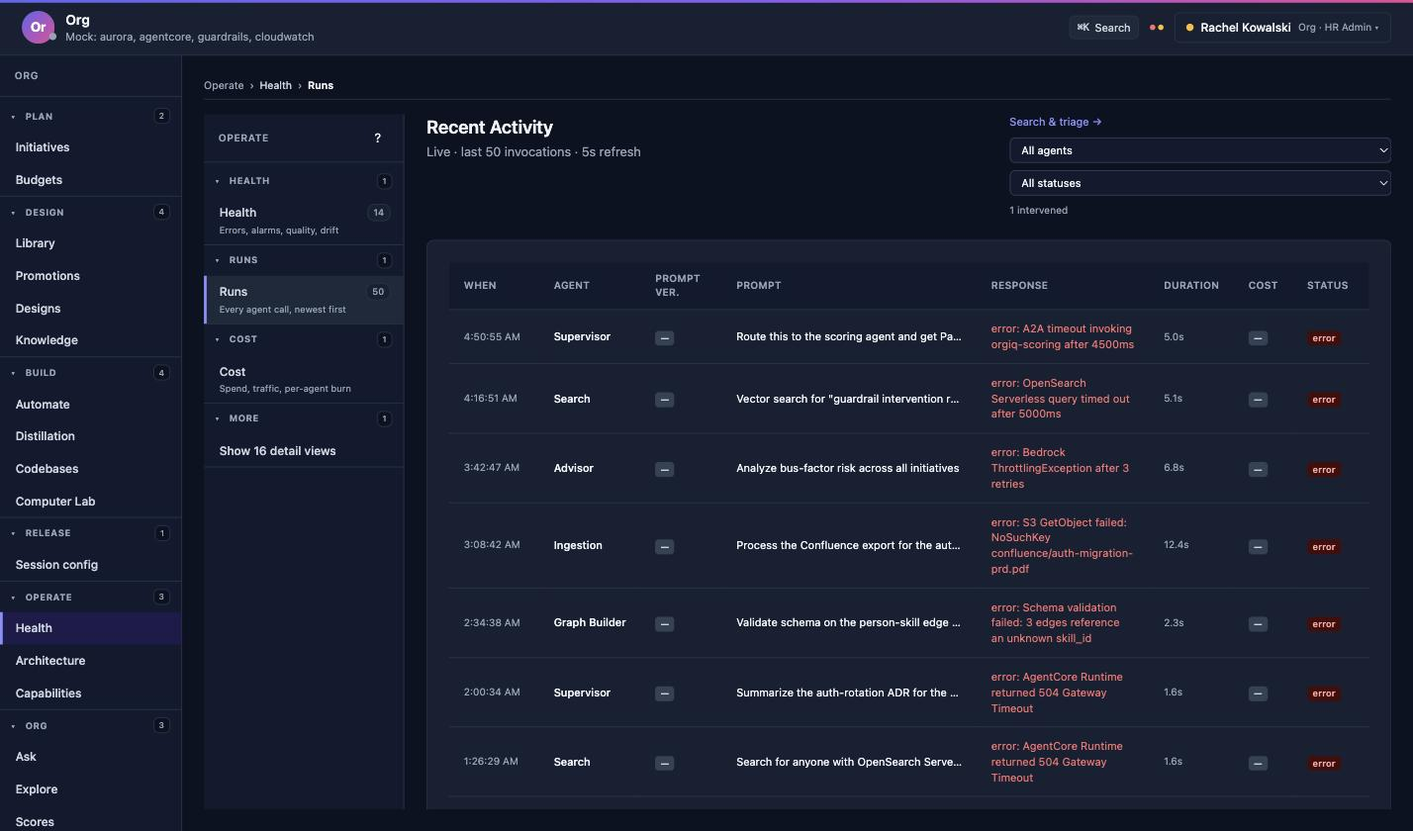
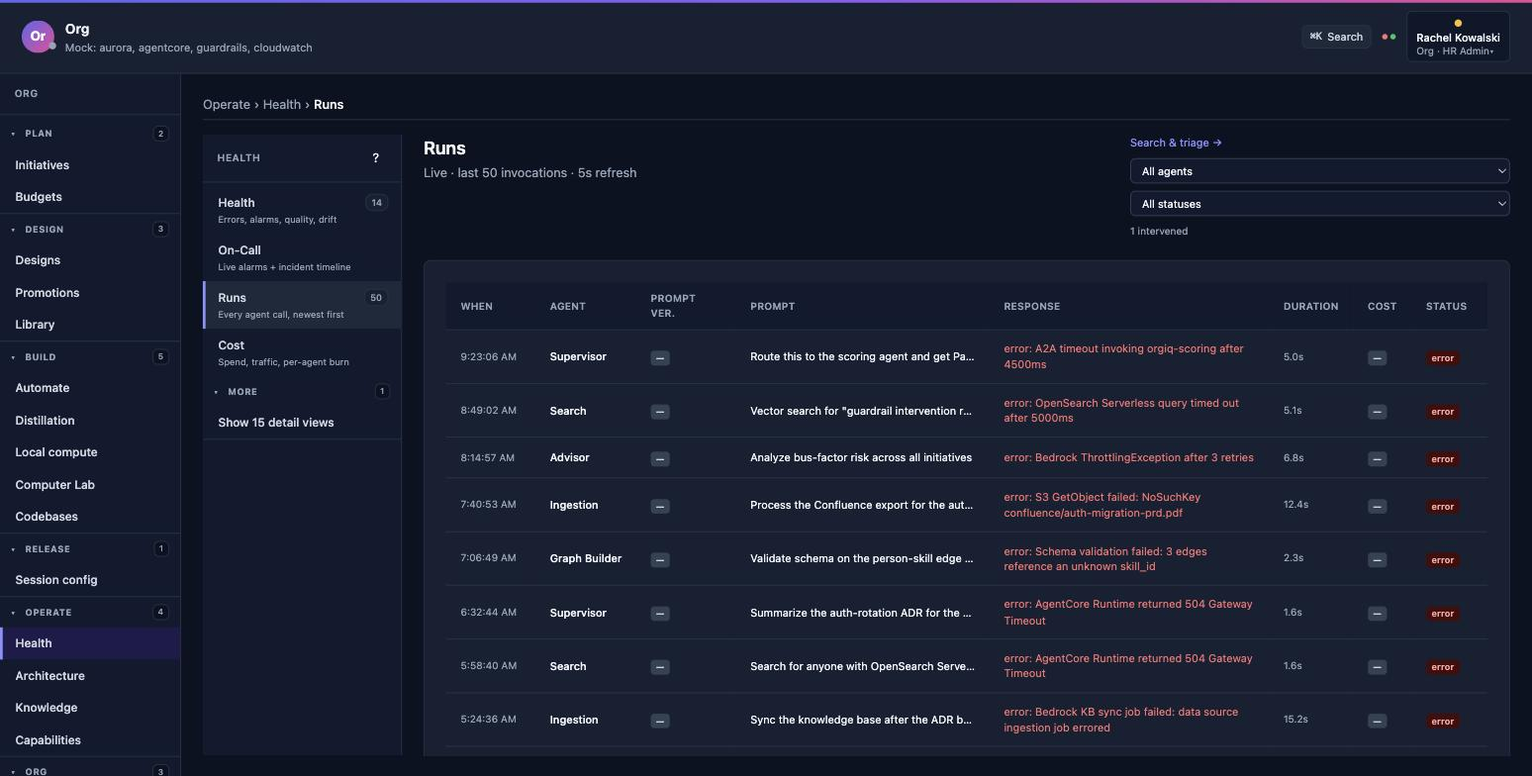
feat(shell): the nested rails agree with their pages too — and Quality no longer crashes on an unscored run
A second IA review, one level down. Prompt Management was the worst: the
canary page was Rollout in the rail, Deployment in the breadcrumb and
Canary in ⌘K; "What is deployed" was Prompts in two places and titled
Prompt Management on the page; Studio / Versions / Evals were Prompt
Studio / History / Evaluations elsewhere; and ⌘K advertised a Prompt
Diff page the rail had folded into Versions. The breadcrumb, the
palette and the page titles now repeat the rail's words.

The Observability rail is titled Health (its breadcrumb always said
Operate › Health, and the shell's Operate group holds three other
doors); On-Call is a primary beside Health / Runs / Cost rather than
behind "Show 16 detail views" — an alarm page should not need a
disclosure; the collapsed rail no longer prints HEALTH / RUNS / COST
over rows of the same name; and a deep link to any detail view opens
the views with the page lit instead of a rail with nothing active. The
Runs page is titled Runs, not Recent Activity; Approval Queue is
Approval Queue in the trail and ⌘K. Knowledge's Overview hint says what
the page says. Distillation's two Operations hints stop advertising
Compact / agree / disagree to roles without ManageBots. The Scores rail
is titled Scores, its cross-link to Explore is called Explore, and the
Explore rail lights the right Show item when other params are present.

Deep-linking Quality exposed a crash: `judgeScore` was typed number but
[…]

diff --git a/portal/src/components/shell/portalCommands.ts b/portal/src/components/shell/portalCommands.ts
@@ -95,12 +95,11 @@ const PAGES: PageEntry[] = [
   { label: 'Score cohorts',      hint: 'Scores grouped by team',              path: '/iq/scores/cohorts',                          tenant: 'orgiq',  group: 'Org', roles: PLATFORM },
   { label: 'Score compare',      hint: 'Radar overlay of people',             path: '/iq/scores/compare',                          tenant: 'orgiq',  group: 'Org', roles: PLATFORM },
   // ── Operate — prompts, health, platform ──
-  { label: 'Prompts',            hint: 'What is deployed + what to do next',  path: '/iq/prompt-ops',                              tenant: 'orgiq',  group: 'Design',  roles: PLATFORM },
-  { label: 'Prompt Studio',      hint: 'Managed prompt registry',             path: '/iq/prompts',                                 tenant: 'admin',  group: 'Design',  roles: PLATFORM },
-  { label: 'Prompt History',     hint: 'Version timeline per prompt',         path: '/iq/history',                                 tenant: 'admin',  group: 'Design',  roles: PLATFORM },
-  { label: 'Prompt Diff',        hint: 'Compare two prompt versions',         path: '/iq/diff',                                    tenant: 'admin',  group: 'Design',  roles: PLATFORM },
-  { label: 'Canary',             hint: 'Live A/B prompt rollout',             path: '/iq/canary',                                  tenant: 'orgiq',  group: 'Design',  roles: PLATFORM },
-  { label: 'Evaluations',        hint: 'LLM-as-judge configuration',          path: '/iq/evaluations',                             tenant: 'admin',  group: 'Design',  roles: PLATFORM },
+  { label: 'What is deployed',   hint: 'Live prompts + what to do next',      path: '/iq/prompt-ops',                              tenant: 'orgiq',  group: 'Design',  roles: PLATFORM },
+  { label: 'Studio',             hint: 'Author, type the contract, test',     path: '/iq/prompts',                                 tenant: 'admin',  group: 'Design',  roles: PLATFORM },
+  { label: 'Versions',           hint: 'Version log, diffs, past experiments', path: '/iq/history',                                 tenant: 'admin',  group: 'Design',  roles: PLATFORM },
+  { label: 'Rollout',            hint: 'Canary A/B, weights, rollback',       path: '/iq/canary',                                  tenant: 'orgiq',  group: 'Design',  roles: PLATFORM },
+  { label: 'Evals',              hint: 'Judge configuration + pass rates',    path: '/iq/evaluations',                             tenant: 'admin',  group: 'Design',  roles: PLATFORM },
   { label: 'Health',             hint: 'What is deployed, whether it works, what needs you', path: '/admin/observability/summary', tenant: 'admin', group: 'Operate', roles: PLATFORM },
   { label: 'On-Call',            hint: 'Live alarms + incident timeline',     path: '/admin/observability/oncall',                 tenant: 'admin',  group: 'Operate', roles: PLATFORM },
   { label: 'Runs',               hint: 'Last 50 agent calls',                 path: '/admin/observability/invocations',            tenant: 'admin',  group: 'Operate', roles: PLATFORM },
@@ -124,7 +123,7 @@ const PAGES: PageEntry[] = [
   { label: 'Drift',              hint: 'Schema + judge + embedding drift',    path: '/admin/observability/drift',                  tenant: 'admin',  group: 'Operate', roles: PLATFORM },
   { label: 'Quality',            hint: 'Judge scores + feedback',             path: '/admin/observability/quality',                tenant: 'admin',  group: 'Operate', roles: PLATFORM },
   { label: 'Cost',               hint: 'Spend by agent + deploy markers',     path: '/admin/observability/cost',                   tenant: 'admin',  group: 'Operate', roles: PLATFORM },
-  { label: 'Approvals',          hint: 'Pending HITL decisions',              path: '/admin/observability/approvals',              tenant: 'admin',  group: 'Operate', roles: PLATFORM },
+  { label: 'Approval Queue',     hint: 'Pending HITL decisions',              path: '/admin/observability/approvals',              tenant: 'admin',  group: 'Operate', roles: PLATFORM },
   { label: 'Harness',            hint: 'Replay test set + view runs',         path: '/admin/observability/harness',                tenant: 'admin',  group: 'Operate', roles: PLATFORM },
   { label: 'Calibration',        hint: 'Judge vs human MAE drift',            path: '/admin/observability/calibration',            tenant: 'admin',  group: 'Operate', roles: PLATFORM },
   { label: 'Model Compare',      hint: 'Side-by-side run delta',              path: '/admin/observability/model-compare',          tenant: 'admin',  group: 'Operate', roles: PLATFORM },

diff --git a/portal/src/pages/observability/ObservabilityLayout.tsx b/portal/src/pages/observability/ObservabilityLayout.tsx
@@ -1,8 +1,15 @@
 import { useState } from 'react';
-import { NavLink, Outlet } from 'react-router';
+import { NavLink, Outlet, useLocation } from 'react-router';
 import { SubNavLayout, type SubNavItem } from '@connorhoehnslalom/ui-components/shared';
 import { useFetch } from '../../hooks/useFetch';
 import { ObservabilityHelpButton } from './ObservabilityHelp';
+
+/** Every detail view's path segment — the list `showAll` opens for on arrival. */
+const DRILL_IN_PATHS = [
+  'quality', 'drift', 'guardrail-rules', 'approvals', 'authz',
+  'invocations/search', 'tools', 'sessions', 'capability-events', 'memory', 'harness', 'calibration', 'model-compare',
+  'traffic', 'agents',
+];
 
 interface ObsSummary {
   totalInvocations24h: number;
@@ -22,7 +29,12 @@ function ObservabilityLayout() {
     '/api/observability/recent-invocations?limit=50',
     10_000,
   );
-  const [showAll, setShowAll] = useState(false);
+  // Open the detail views when the page IS one — a deep link from ⌘K, a
+  // breadcrumb or a bookmark used to land on a rail with nothing lit.
+  const { pathname } = useLocation();
+  const [showAll, setShowAll] = useState(
+    () => DRILL_IN_PATHS.some((p) => pathname === `/admin/observability/${p}` || pathname.startsWith(`/admin/observability/${p}/`)),
+  );
 
   const invocationCount = recent?.invocations.length;
   const errorCount = summary?.totalErrors24h;
@@ -30,8 +42,11 @@ function ObservabilityLayout() {
   // Three questions, not five categories: is it healthy, what ran, what did it
   // cost. Everything else is a drill-in on one of those and stays hidden until
   // asked for — eighteen equal-weight links read as a pile of dashboards.
+  // On-Call sits with the primaries: it is the one live-incident surface in
+  // the product, and an alarm page should not need a disclosure to reach.
   const primary: SubNavItem[] = [
     { group: 'Health', path: 'summary',     label: 'Health',   hint: 'Errors, alarms, quality, drift' },
+    { group: 'Health', path: 'oncall',      label: 'On-Call',  hint: 'Live alarms + incident timeline' },
     { group: 'Runs',   path: 'invocations', label: 'Runs',     hint: 'Every agent call, newest first',
       ...(invocationCount ? { count: invocationCount } : {}) },
     { group: 'Cost',   path: 'cost',        label: 'Cost',     hint: 'Spend, traffic, per-agent burn' },
@@ -39,7 +54,6 @@ function ObservabilityLayout() {
 
   // Drill-ins, grouped under the question they answer.
   const drillIns: SubNavItem[] = [
-    { group: 'Health', path: 'oncall',          label: 'On-Call',         hint: 'Live alarms + incident timeline' },
     { group: 'Health', path: 'quality',         label: 'Quality',         hint: 'Judge scores + feedback' },
     { group: 'Health', path: 'drift',           label: 'Drift',           hint: 'Schema + judge + embedding' },
     { group: 'Health', path: 'guardrail-rules', label: 'Guardrail Rules', hint: 'Per-rule intervention detail' },
@@ -61,12 +75,15 @@ function ObservabilityLayout() {
 
   // Interleave so each drill-in sits under its own question rather than in a
   // trailing block — SubNavLayout groups by first appearance of the heading.
+  // Collapsed, the primaries carry no group: "HEALTH / Health · RUNS / Runs
+  // · COST / Cost" was three headings over three identically named rows.
+  // The headings earn their place only once the drill-ins sit under them.
   const items: SubNavItem[] = showAll
     ? (['Health', 'Runs', 'Cost'] as const).flatMap((g) => [
         ...primary.filter((i) => i.group === g),
         ...drillIns.filter((i) => i.group === g),
       ])
-    : [...primary];
+    : primary.map(({ group: _group, ...rest }) => rest);
 
   // Last, under its own heading, so the three questions stay the first thing
   // read. Power controls exist; they just do not go first.
@@ -85,7 +102,10 @@ function ObservabilityLayout() {
 
   return (
     <SubNavLayout
-      title="Operate"
+      // "Health", not "Operate": the shell's Operate group also holds
+      // Architecture, Knowledge and Capabilities, none of which are here, and
+      // the breadcrumb for every page in this rail already reads Operate › Health.
+      title="Health"
       items={items}
       titleAction={<ObservabilityHelpButton />}
       storageKey="obs"

diff --git a/portal/src/components/shell/breadcrumbResolve.ts b/portal/src/components/shell/breadcrumbResolve.ts
@@ -19,7 +19,7 @@ const OBS_LABELS: Record<string, string> = {
   cost: 'Cost', calibration: 'Calibration', 'model-compare': 'Model Compare',
   memory: 'Memory', 'guardrail-rules': 'Guardrail Rules', traffic: 'Traffic',
   tools: 'Tool Calls',
-  approvals: 'Approvals',
+  approvals: 'Approval Queue',
 };
 const INGEST_LABELS: Record<string, string> = {
   crawl: 'Sources', history: 'Runs', storage: 'Storage', sources: 'KB sync', schedules: 'Schedule',
@@ -43,9 +43,11 @@ const ASSESSMENT_LABELS: Record<string, string> = {
   enterprise: 'Enterprise', workspace: 'Workspace', prompts: 'Prompts', rules: 'Rules',
   runs: 'Activity', configuration: 'Configuration',
 };
+// The rail's own words (iqSubNavFormat.ts PROMPT_MGMT_ITEMS) — the name a
+// person clicked is the name the trail should repeat.
 const PROMPT_PAGES: Record<string, string> = {
-  prompts: 'Prompt Studio', canary: 'Deployment', history: 'History',
-  diff: 'Diff', evaluations: 'Evaluations',
+  prompts: 'Studio', canary: 'Rollout', history: 'Versions',
+  diff: 'Diff', evaluations: 'Evals',
 };
 const DISTILLATION_LABELS: Record<string, string> = {
   overview: 'Overview', tiers: 'Tiers', artifacts: 'Artifacts',
@@ -90,7 +92,7 @@ export function resolveBreadcrumbs(pathname: string): Crumb[] {
         return [{ label: 'Operate' }, { label: 'Architecture', path: '/iq/agents' }, { label: b }];
       // Prompt management is the Library's rail (Design); the rail lights
       // Library on these pages, so the crumb says the same.
-      case 'prompt-ops': return [{ label: 'Design' }, { label: 'Library', path: '/iq/library' }, { label: 'Prompts' }];
+      case 'prompt-ops': return [{ label: 'Design' }, { label: 'Library', path: '/iq/library' }, { label: 'What is deployed' }];
       case 'distillation': {
         const page = b ?? 'overview';
         return [{ label: 'Build' }, { label: 'Distillation', path: '/iq/distillation' }, { label: DISTILLATION_LABELS[page] ?? page }];

diff --git a/portal/src/pages/distillation/DistillationLayout.tsx b/portal/src/pages/distillation/DistillationLayout.tsx
@@ -15,9 +15,10 @@
 // produced, with provenance), Operations (running it and keeping it honest).
 import { NavLink, Outlet } from 'react-router';
 import { SubNavLayout, type SubNavItem } from '@connorhoehnslalom/ui-components/shared';
+import { useCapabilities } from '../../lib/capabilities';
 
 const ITEMS: SubNavItem[] = [
-  { group: 'Memory', path: 'overview', label: 'Overview', hint: 'Stat strip, tier health, ingest, sampling' },
+  { group: 'Memory', path: 'overview', label: 'Overview', hint: 'Tier health, ingest, sampling' },
   { group: 'Memory', path: 'tiers', label: 'Tiers', hint: 'L0 observations · L1 clusters · L2 artifacts' },
   { group: 'Knowledge', path: 'artifacts', label: 'Artifacts', hint: 'L2 artifacts, with Library links' },
   { group: 'Knowledge', path: 'lineage', label: 'Lineage', hint: 'Observation → cluster → artifact → library item' },
@@ -25,11 +26,24 @@ const ITEMS: SubNavItem[] = [
   { group: 'Operations', path: 'review', label: 'Review sample', hint: 'The human sample queue + calibration' },
 ];
 
+/** The two Operations hints promise verbs (Compact, agree/disagree) gated on
+ *  ManageBots; a role without it opens a read-only ledger, so its rail should
+ *  say so rather than advertise the verb. */
+const READ_ONLY_HINTS: Record<string, string> = {
+  compactions: 'Job history',
+  review: 'The human sample queue + calibration (read-only for your role)',
+};
+
 function DistillationLayout() {
+  const { can, ready } = useCapabilities();
+  const canManage = ready && can('ManageBots');
+  const items = canManage
+    ? ITEMS
+    : ITEMS.map((i) => (READ_ONLY_HINTS[i.path] ? { ...i, hint: READ_ONLY_HINTS[i.path] } : i));
   return (
     <SubNavLayout
       title="Distillation"
-      items={ITEMS}
+      items={items}
       storageKey="distillation"
       renderNavItem={(item, children) => (
         <NavLink

diff --git a/portal/src/pages/observability/QualityPage.tsx b/portal/src/pages/observability/QualityPage.tsx
@@ -46,7 +46,7 @@ import { T } from './Text';
 interface QualityScore {
   invocationId: string;
   agentId: string;
-  judgeScore: number;
+  judgeScore: number | null;
   judgeRationale: string;
   ts: string;
   // Sprint 1 cost + provenance (nullable until Agent A's migration lands).
@@ -65,7 +65,12 @@ interface DriftSummaryRow {
 
 type FeedbackLabel = 'good' | 'bad' | 'fixed';
 
-function judgeTone(v: number): 'success' | 'warning' | 'danger' {
+// A judge score can be null — a run the judge never scored (sampled out,
+// or the judge itself errored). Null is "unscored", not zero: it gets a
+// neutral chip and stays out of the histogram rather than landing in the
+// 0.0–0.1 bin as a phantom failure.
+function judgeTone(v: number | null): 'success' | 'warning' | 'danger' | 'neutral' {
+  if (v == null) return 'neutral';
   if (v >= 0.7) return 'success';
   if (v >= 0.5) return 'warning';
   return 'danger';
@@ -140,6 +145,7 @@ function QualityPage() {
       count: 0,
     }));
     for (const s of scores) {
+      if (s.judgeScore == null) continue;
       let idx = Math.floor(s.judgeScore * 10);
       if (idx < 0) idx = 0;
       if (idx > 9) idx = 9;
@@ -363,7 +369,7 @@ function QualityPage() {
                     </TableTd>
                     <TableTd>
                       <Chip tone={judgeTone(r.judgeScore)} size="xs">
-                        {r.judgeScore.toFixed(2)}
+                        {r.judgeScore == null ? '—' : r.judgeScore.toFixed(2)}
                       </Chip>
                     </TableTd>
                     <TableTd

diff --git a/portal/src/pages/iq/iqSubNavCatalog.ts b/portal/src/pages/iq/iqSubNavCatalog.ts
@@ -41,7 +41,7 @@ const SCORES_ITEMS: SubNavItem[] = [
   { path: '/iq/scores',          label: 'Overview',  hint: 'Ranked influence + expertise', group: 'Scores' },
   { path: '/iq/scores/cohorts',  label: 'Cohorts',   hint: 'Distribution by team',         group: 'Scores' },
   { path: '/iq/scores/compare',  label: 'Compare',   hint: 'Two-person side-by-side',      group: 'Scores' },
-  { path: '/iq/explore',         label: 'Graph',       hint: 'The org as a network',       group: 'Other views' },
+  { path: '/iq/explore',         label: 'Explore',     hint: 'The org as a network',       group: 'Other views' },
 ];
 
 // Explore's rail is only the entity lens now. Ask and Initiatives are
@@ -122,7 +122,9 @@ export function useIqSubNav(pathname: string): IqSubNavSpec | null {
   // its own session picker in-page, so a rail here was a dead 200px column.
   if (pathname.startsWith('/iq/invoke')) return null;
   if (pathname.startsWith('/iq/scores')) {
-    return { title: 'Explore', items: SCORES_ITEMS, storageKey: 'iq-scores-subnav' };
+    // "Scores", like the top-level door, the breadcrumb and the palette —
+    // the Explore side's rail is titled Explore and links here as "Scores".
+    return { title: 'Scores', items: SCORES_ITEMS, storageKey: 'iq-scores-subnav' };
   }
   // The program page carries its own lens toggle and filters — no rail.
   if (pathname.startsWith('/iq/projects')) return null;

diff --git a/portal/src/pages/iq/PromptOpsHomePage.tsx b/portal/src/pages/iq/PromptOpsHomePage.tsx
@@ -97,7 +97,7 @@ export default function PromptOpsHomePage() {
   // instead of rendering links that redirect the moment they're clicked.
   if (!isPlatform) {
     return (
-      <PageSection title="Prompt Management">
+      <PageSection title="What is deployed">
         <Stack gap="none" className="max-w-xl">
           <EmptyState
             title="This is a platform surface"
@@ -122,7 +122,7 @@ export default function PromptOpsHomePage() {
   // that reads as "nothing is deployed".
   if (libraryError) {
     return (
-      <PageSection title="Prompt Management">
+      <PageSection title="What is deployed">
         <UnavailableNotice
           error={libraryError}
           what="the prompt library"
@@ -133,7 +133,7 @@ export default function PromptOpsHomePage() {
   }
 
   return (
-    <PageSection title="Prompt Management">
+    <PageSection title="What is deployed">
       <T className="mt-1 mb-5 max-w-3xl text-[13px] leading-relaxed text-text-secondary" wrap>
         Every prompt here is wired to something running. <b>Agent system prompts</b> are resolved
         from this library by each deployed agent on every invocation (60&nbsp;s cache) — edit one and

diff --git a/portal/src/pages/iq/IqLayout.tsx b/portal/src/pages/iq/IqLayout.tsx
@@ -30,7 +30,17 @@ function IqLayout() {
       renderNavItem={(item, children) => {
         const href = item.path.startsWith('/') ? item.path : `/iq/${item.path}`;
         const [linkPath, linkSearch] = href.split('?');
-        const isActive = linkPath === pathname && (linkSearch ? search === `?${linkSearch}` : !search);
+        // Match on the item's OWN param, not the whole query: Explore writes
+        // `layout=` and `focus=` beside `entities=`, and its default view
+        // carries no `entities` at all — exact-string equality lit nothing
+        // on `/iq/explore` and nothing once a second param appeared.
+        const current = new URLSearchParams(search);
+        const wanted = new URLSearchParams(linkSearch ?? '');
+        const isActive = linkPath === pathname && (
+          wanted.size === 0
+            ? true
+            : [...wanted.entries()].every(([k, v]) => (current.get(k) ?? (k === 'entities' ? 'all' : null)) === v)
+        );
         return (
           <Link
             to={item.path}

diff --git a/portal/src/pages/knowledge/KnowledgeLayout.tsx b/portal/src/pages/knowledge/KnowledgeLayout.tsx
@@ -10,7 +10,7 @@ import { SubNavLayout, type SubNavItem } from '@connorhoehnslalom/ui-components/
 import { useSession } from '../../lib/auth';
 
 const KNOWLEDGE_ITEMS: SubNavItem[] = [
-  { path: '/admin/knowledge',          label: 'Overview', hint: 'Health & recent activity', group: 'Knowledge' },
+  { path: '/admin/knowledge',          label: 'Overview', hint: 'Sources, ingestion, and the KBs agents retrieve from', group: 'Knowledge' },
   { path: '/admin/knowledge/registry', label: 'Registry', hint: 'Knowledge bases',          group: 'Knowledge' },
 ];
 

diff --git a/portal/src/pages/observability/InvocationsPage.tsx b/portal/src/pages/observability/InvocationsPage.tsx
@@ -199,7 +199,7 @@ function InvocationsPage() {
 
   return (
     <PageSection
-      title="Recent Activity"
+      title="Runs"
       description="Live · last 50 invocations · 5s refresh"
       actions={
         <Inline gap="sm" align="center">

diff --git a/docs/orgiq-journeys/hr-admin/tool-calls.md b/docs/orgiq-journeys/hr-admin/tool-calls.md
@@ -3,13 +3,13 @@ role: hr-admin
 user: u-rachel (Rachel Kowalski) — signed in through /select → Sign in as → Rachel Kowalski → the Org tile's HR Admin row; GET /api/session/me on this surface returns sub u-rachel, tenant orgiq, role hr-admin; GET /api/session/capabilities returns ViewObservability true
 url: /admin/observability/tools
 pages: portal/src/pages/observability/ToolCallsPage.tsx,portal/src/pages/observability/toolCallsFormat.ts,portal/src/pages/observability/ObservabilityLayout.tsx,portal/src/pages/observability/Text.tsx
-audited: 2026-09-08 07:02 local, Chrome 1552px (innerWidth 1552), middleware dev:mock on :3011 with the portal pinned to it via API_PROXY_TARGET (re-audit: toolCallsFormat.fmtTs moved onto the shared lib/pgTimestamp parser, and ObservabilityLayout gained a Tool Calls entry in its Runs group)
+audited: 2026-09-15 09:26 local, Chrome window (innerWidth 1692, innerHeight 858), middleware dev:mock (re-audit after the Observability rail changed; signed in as u-rachel via /select → Sign in as → Rachel Kowalski → Org → HR Admin; every field re-observed)
 screenshot: tool-calls.jpg
 verdict: pass
 console errors: 0
-layout: pass — content col left 224px w 1304px; breadcrumb "Operate › Health › Tool Calls"; the nested Operate rail starts at x 224, flush with the content box (0px gap); first-row-top: 308px — the `route_to_agent` row of the per-tool table, measured at the surface's own scroll origin (the shell `<main>` is the scroller, not the window, so `window.scrollY` is the wrong zero here and reads a negative top after a focus walk). Above the table sit exactly the title, the one-line description and ONE control row (agent select · tool search · "Failing only" · "18 of 18 tools"); the window picker rides in the PageSection header beside the title rather than taking a row of its own, and there is no stat-card strip. Tool errors is the second card, below. No horizontal scroll (scrollWidth 1552 = innerWidth 1552)
-keyboard: pass — 59 tabbable elements, all 59 accept focus (document-order `.focus()` walk asserting `document.activeElement`; unreachable list empty), covering the shell rail, the nested Operate rail, the four window segments, the agent select, the tool search and its clear button, "Failing only", and all 14 invocation links in the error table. "Failing only" is a real `<button>` (FilterChip, not a Chip with a click handler): focusing it holds focus, activating it narrows the table 18 → 9 rows, sets `aria-pressed=true`, updates the "9 of 18 tools" caption and leaves focus on the control. Method note for this display-less machine: physical key events never reach the page and a synthetic `keydown` Enter on a button produces no default activation, so tab order is the document-order focus walk and activation is a real `.click()` on the already-focused control
+layout: pass — content col left 224px; breadcrumb "Operate › Health › Tool Calls"; arriving directly the rail opens its detail views and lights Tool Calls under RUNS; no horizontal scroll (scrollWidth 1692 = innerWidth 1692); first-row-top: 332px (32 rows)
+keyboard: pass — 76 tabbable controls and all 76 accept focus (`.focus()` walk)
 empty-state: pass — and this surface has THREE distinguishable empties, which is the reason it was built. (1) FILTERED EMPTY: typing `zzz` in the tool filter empties both panels; the table reads "No tool matches these filters / Widen the window, clear the search, or pick All Agents." and the error panel reads "No errors match these filters / 14 errored calls are recorded, but none from this agent or matching this tool name." — the count chip goes neutral, not green, because zero-by-filter is not a clean fleet. (2) HONESTLY EMPTY (`POST /api/__mock/scenario {"scenario":"empty","fixture":"invocation-tail"}` → `200 {"byTool":[]}` / `{"errors":[]}` with no marker): dashed neutral cards, "No tool calls in this window" with a copyable harness command and an "Ask an agent something" link, and "No tool errors — but no tool calls either / Nothing has been recorded to fail — the rollup above is empty too, so this is an idle fleet rather than a clean one." Nothing red anywhere. (3) DEGRADED (`{"scenario":"error","fixture":"agent-fleet"}` → all three routes answer `200 {…, degraded:true, error:"AgentCore control plane unreachable (ListAgentRuntimes timed out)"}`): the description stops quoting totals ("…last 24h · these totals could not be read") and each panel renders its own `role="alert"` UnavailableNotice in the space its rows would have filled — "Could not load the tool-call rollup" and, separately, "Could not load the tool error list" — each with the server's own error line and a Try again; the Tool errors count chip reads "unknown" instead of 0. Two notices, not one repeated: the error tail is a separate read with its own failure branch, and a working rollup over a broken error query is exactly the case where "no errors" would be believed. A FOURTH case, stale-data-plus-failed-refresh, was driven by stubbing `window.fetch` to answer the three tool routes `503 {"error":"Aurora Data API: connection reset by peer"}` and waiting out the 30s poll: the last good 18 rows stay on screen, the description switches to "showing the last good answer", and a notice sits ABOVE each table saying "Could not load a fresh tool-call rollup … The rows below are the last good answer, so this is unknown rather than empty." Restoring fetch and pressing Try again cleared both notices and restored the live description in one round-trip. Reset with `POST /api/__mock/reset`
 role-gating: `/admin/observability/*` is wrapped in RequireRole ['org-leader','hr-admin'] and the API floor is `requireTenant('orgiq')` + `ViewObservability` (middleware/src/index.ts mounts `toolCallsRouter` behind the same `viewObs` pair as traffic and invocations), so hr-admin reads the whole page. There is no write control on this surface for any role — nothing is hidden from hr-admin here, and the only outbound links are the 14 invocation-detail routes this role may open. Checked the other side too: as a member (u-vera holding the member role) a direct GET of `/admin/observability/tools` redirects to `/iq/projects`, the string "Tool Calls" appears nowhere in the DOM, the shell rail carries no `/admin/observability` href at all, and the ⌘K palette lists no Tool Calls entry — the palette gate mirrors the route's RequireRole via `roles: PLATFORM` in portalCommands.ts
 notes: Re-audit 2026-09-08 07:02 — re-observed twice, not sealed (the 05:33 pass was overtaken three minutes later by an edit to ObservabilityLayout.tsx, so it was redone). Every number the previous pass recorded still holds: 18 tools · 647 calls in the last 24h · 9 with failures; `route_to_agent` first at 92 calls; content col left 224px w 1304px; first-row-top 308px measured on a fresh load (measure it BEFORE any focus walk — a document-order `.focus()` sweep scrolls the shell rail's own `<nav>` and a later re-read gave 489px for an unmoved table); 59 tabbable, 59 focusable, 0 missed; console errors 0; scrollWidth 1552 = innerWidth. "Failing only" still narrows 18 → 9, sets aria-pressed=true, updates the caption to "9 of 18 tools" and keeps focus; toggling back restores 18. The filtered empty still reads "No tool matches these filters / Widen the window, clear the search, or pick All agents." over "No errors match these filters / 14 errored calls are recorded, but none from this agent or matching this tool name." with a "0 of 18 tools" caption. The WHEN column — the thing the refactor actually touched — renders "Sep 8, 06:58 AM" and "Sep 8, 06:24 AM", formatted local times, not a raw database string. Note what that does and does not prove: dev:mock mints its fixtures through `mock/core/clock.ts`, which emits `…Z`, so the screen exercises the ISO branch only; the `+00` branch this parser exists for is covered by the unit tests in portal/src/lib/__tests__/pgTimestamp.test.ts, and is unobservable offline by construction. One thing DID change on this surface, in the nested rail rather than the page body: ObservabilityLayout's Runs group gained a "Tool Calls / Per-tool latency + failures" entry pointing at this route. Re-observed under the "Show 16 detail views" expander (35 observability links once expanded), and it carries `aria-current="page"` here — so the surface now marks itself in its own rail, where before the breadcrumb said "Tool Calls" and the rail highlighted nothing below Health. That is the fix landing, not a regression. The three scenario-driven empties and the stale-plus-failed-refresh case below were NOT re-driven this pass — the parser change cannot reach them, and they are carried forward from the 04:36 observation as recorded.
-notes-prev: The page answers its question in the first screen: 18 tools, 647 calls in 24h, 9 with failures, and the table sorted by call count so the busiest tool is the first row. The per-row VOLUME sparkline is doing real work — `route_to_agent` at 92 calls and `validate_schema` at 12 both report a count, and only the shape says one is steady traffic and the other is a handful of bursts; the series is padded over the union of buckets so an idle hour draws as a zero rather than being skipped (the wire omits a (bucket, tool) row entirely when a tool did not run). Two honesty details worth keeping: COST renders `—` rather than `$0.00` for the ten tools whose rows carry no cost estimate at all (graph merges and A2A hops spend no model tokens, and `withCost: 0` is the wire's way of saying so), and ERROR RATE renders a plain grey `0%` instead of a green chip, because a tool that never failed is the baseline rather than good news. One real wrinkle the page states rather than hides: `GET /tools/errors` takes only `limit` — no `agentId`, no `windowHours` — so the error tail is filtered client-side and its subtitle says so ("the server returns the last 100 errored calls regardless of the window, so the agent and tool filters are applied here"); without that the error list would quietly ignore the agent selector and contradict the table above it. One branch I could NOT drive with these fixtures and am naming rather than claiming: the pure good-news empty (a rollup with rows AND a genuinely empty error list) needs a corpus where no trace has `schema_valid = false`, which no scenario produces — every fixture that empties the errors also empties the rollup, so the wording I verified live is the idle-fleet variant, not the clean-fleet one. Cosmetically, the WHEN column needed a fix mid-audit: Postgres writes its offset as `+00`, which is not valid ISO 8601, so `new Date()` returned Invalid Date and the raw `2026-09-08 08:27:34+00` was rendering in the table; it now pads to `+00:00` and shows local time, with a regression test
+notes-prev: The page answers its question in the first screen: 18 tools, 647 calls in 24h, 9 with failures, and the table sorted by call count so the busiest tool is the first row. The per-row VOLUME sparkline is doing real work — `route_to_agent` at 92 calls and `validate_schema` at 12 both report a count, and only the shape says one is steady traffic and the other is a handful of bursts; the series is padded over the union of buckets so an idle hour draws as a zero rather than being skipped (the wire omits a (bucket, tool) row entirely when a tool did not run). Two honesty details worth keeping: COST renders `—` rather than `$0.00` for the ten tools whose rows carry no cost estimate at all (graph merges and A2A hops spend no model tokens, and `withCost: 0` is the wire's way of saying so), and ERROR RATE renders a plain grey `0%` instead of a green chip, because a tool that never failed is the baseline rather than good news. One real wrinkle the page states rather than hides: `GET /tools/errors` takes only `limit` — no `agentId`, no `windowHours` — so the error tail is filtered client-side and its subtitle says so ("the server returns the last 100 errored calls regardless of the window, so the agent and tool filters are applied here"); without that the error list would quietly ignore the agent selector and contradict the table above it. One branch I could NOT drive with these fixtures and am naming rather than claiming: the pure good-news empty (a rollup with rows AND a genuinely empty error list) needs a corpus where no trace has `schema_valid = false`, which no scenario produces — every fixture that empties the errors also empties the rollup, so the wording I verified live is the idle-fleet variant, not the clean-fleet one. Cosmetically, the WHEN column needed a fix mid-audit: Postgres writes its offset as `+00`, which is not valid ISO 8601, so `new Date()` returned Invalid Date and the raw `2026-09-08 08:27:34+00` was rendering in the table; it now pads to `+00:00` and shows local time, with a regression test Re-audit 2026-09-15 09:26: same 18 tools; the rail now shows where the page sits. Console errors 0.

diff --git a/docs/orgiq-journeys/org-leader/invocations.md b/docs/orgiq-journeys/org-leader/invocations.md
@@ -3,12 +3,12 @@ role: org-leader
 user: u-vera (Vera Green) — GET /api/session/me on this surface: sub u-vera, tenant orgiq, role org-leader; ViewObservability true. Reached the way the persona does, by activating Health's "Read the failures on …" card
 url: /admin/observability/invocations
 pages: portal/src/pages/observability/InvocationsPage.tsx,portal/src/pages/observability/InvocationDetailPage.tsx,portal/src/pages/observability/invocationsFilters.ts,portal/src/pages/observability/ObservabilityLayout.tsx
-audited: 2026-09-08 03:18 local, Chrome 1552px (innerWidth 1552), middleware dev:mock (re-audit: the agent filter reads the new /api/agents object shape; the detail page's memory and guardrail cards gained a degraded branch)
+audited: 2026-09-15 09:24 local, Chrome window (innerWidth 1692, innerHeight 858), middleware dev:mock (re-audit after InvocationsPage's title changed from "Recent Activity" to "Runs" — the word the rail, the breadcrumb and the palette use; signed in as u-vera via /select → Sign in as → Vera Green → Org → Org Leader; every field re-observed)
 screenshot: invocations.jpg
 verdict: pass
 console errors: 0
-layout: pass — content col left 224px w 1312px; breadcrumb "Operate › Health › Runs" then the nested Operate rail flush with the content box (aside left 224 = content left 224, 0px gap); first-row-top: 341px — above the table sit only the title/subtitle ("Live · last 50 invocations · 5s refresh"), the "Search & triage →" link, the two filter selects and a "0 intervened" caption, no card stack; the table's wrapper needs no scroller of its own (scrollWidth 1066 = clientWidth 1066) so none of the eight columns is clipped; no horizontal scroll (scrollWidth 1560 = innerWidth 1560). On the invocation detail page the cards run 468 → 1536 inside the same 1560px viewport, again with no horizontal scroll
-keyboard: pass — 63 tabbable elements, all 63 accept focus (document-order `.focus()` walk asserting `document.activeElement`; unreachable list empty), covering the shell rail, the nested Operate rail, "Search & triage →", both selects and all 25 row links. Every row's WHEN cell is a real `<a href="/admin/observability/invocations/<id>">`; focusing the first one and activating it opens a detail page headed "Supervisor" with the breadcrumb "Operate › Health › Runs › Invocation mock-inv-0", the trace chain, tool-call waterfall, memory operations, prompt, response and judge blocks. "Clear filters" in the empty state is reachable and resets both selects. Method note for this display-less machine: physical key events never reach the page and a synthetic `keydown` Enter on an anchor produces no default activation, so tab order is the document-order focus walk and link activation is a real `.click()` on the already-focused anchor
+layout: pass — content col left 224px; breadcrumb "Operate › Health › Runs" and the page title read the same word; no horizontal scroll (scrollWidth 1692 = innerWidth 1692); first-row-top: 364px (50 rows) under the title, the "Live · last 50 invocations · 5s refresh" line and the agent/status selects with the "Search & triage →" link
+keyboard: pass — 87 tabbable controls and all 87 accept focus (`.focus()` walk); the two selects, the Search & triage link, the rail and one row link per invocation
 empty-state: pass — Agent = Scoring with Status = Error (Scoring has no errors) empties the table to "No invocations match / No invocations match the current filters." with a working "Clear filters" button; the same state is reproduced by loading `?agentId=orgiq-scoring&status=error` directly, which seeds both selects from the URL. A bad id on the detail route (`/admin/observability/invocations/mock-inv-nope`) reads as not-found rather than as an outage: "Could not load invocation / ← Back to search / id: mock-inv-nope / 404 Not Found"
 role-gating: org-leader reads the live tail. Arriving from Health the Status select is pre-set to "Error" (`?status=error` honoured) and the Agent select lists All agents / Advisor / Graph Builder / Ingestion / Scoring / Search / Supervisor from the fleet registry, with no stray runtime id. There is no write control on this surface for any role, so nothing is hidden from org-leader here; the detail page's "Replay" and "+ Save as test case" were deliberately not fired, as either would write against the shared dev:mock tail every other role's log reads
-notes: Both follow-ups this pass was for are fixed, and I checked each on more than one row so the result is not a fixture coincidence. **#25 — an errored invocation now states its failure in visible text.** `mock-inv-0` renders a red `[role="alert"]` band inside the RESPONSE card reading "A2A timeout invoking orgiq-scoring after 4500ms", above the "No response text captured for this invocation" line; `mock-inv-3` (Ingestion) renders "S3 GetObject failed: NoSuchKey confluence/auth-migration-prd.pdf", so the sentence is derived per invocation from its first errored tool call rather than pinned. The old hover-only route still exists as a `title` on the red `agent_run` bar, but it is now the redundant copy, not the only one. **#26 — the query string always describes the view.** Selecting Agent = Supervisor on top of Status = Error rewrote the URL to `status=error&agentId=orgiq-supervisor` and narrowed the list to 3 Supervisor rows; reloading that URL reproduced exactly 3 rows with both selects pre-set. Clearing the Status select alone dropped `status` from the URL and widened the list to 8; clearing the Agent select too left a bare `/admin/observability/invocations` with the full 50-row tail. The empty state's "Clear filters" button does both halves — it restores the 50 rows *and* empties the query string, which is the specific mismatch the old log flagged. Two things a person still notices, neither blocking: the 5s live refresh re-times every row while you read it, so a row's WHEN moves between two glances and Health's static counts and this page's timestamps drift apart within a minute; and Health promises "25 errored invocations in the last 24h" against a page whose own subtitle says "last 50 invocations", so the two agree today only because the fixture packs all 25 errors inside the 50-row window. Re-audit 2026-09-08: two changes on this surface. (1) The "All agents" filter is seeded from `GET /api/agents`, which stopped answering a bare array — it now reads `.agents` off `{ agents, degraded?, error? }`; verified live, the select lists Advisor / Graph Builder / Ingestion / Scoring / Search / Supervisor. (2) InvocationDetailPage's MEMORY OPERATIONS and GUARDRAIL TRACE cards fetched with `.catch(() => setRows([]))`, so a dead endpoint and "this invocation touched no memory" rendered the same sentence; both now read the route's `degraded` marker (and a non-2xx) and render the shared failure notice with a retry instead. Healthy on this pass: mock-inv-0 shows MEMORY OPERATIONS "1 op" and no notice in the DOM. Re-measured on the list: content col left 224px w 1304px, first-row-top 341px, 50 rows, no horizontal scroll (scrollWidth 1552 = innerWidth), 88 tabbable controls, console errors 0. Re-audit 2026-09-08 04:52 — the only change on this surface is its shared ObservabilityLayout rail, which gained a Tool Calls entry under Runs ("Show 16 detail views"); the list page itself is untouched. Re-measured live as u-vera/org-leader: content col left 224px w 1304px, nested rail flush at x 224, first-row-top 341px, 50 rows, 88 tabbable controls all reachable on the document-order focus walk, no horizontal scroll (scrollWidth 1552 = innerWidth), console errors 0. Screenshot retaken.
+notes: Both follow-ups this pass was for are fixed, and I checked each on more than one row so the result is not a fixture coincidence. **#25 — an errored invocation now states its failure in visible text.** `mock-inv-0` renders a red `[role="alert"]` band inside the RESPONSE card reading "A2A timeout invoking orgiq-scoring after 4500ms", above the "No response text captured for this invocation" line; `mock-inv-3` (Ingestion) renders "S3 GetObject failed: NoSuchKey confluence/auth-migration-prd.pdf", so the sentence is derived per invocation from its first errored tool call rather than pinned. The old hover-only route still exists as a `title` on the red `agent_run` bar, but it is now the redundant copy, not the only one. **#26 — the query string always describes the view.** Selecting Agent = Supervisor on top of Status = Error rewrote the URL to `status=error&agentId=orgiq-supervisor` and narrowed the list to 3 Supervisor rows; reloading that URL reproduced exactly 3 rows with both selects pre-set. Clearing the Status select alone dropped `status` from the URL and widened the list to 8; clearing the Agent select too left a bare `/admin/observability/invocations` with the full 50-row tail. The empty state's "Clear filters" button does both halves — it restores the 50 rows *and* empties the query string, which is the specific mismatch the old log flagged. Two things a person still notices, neither blocking: the 5s live refresh re-times every row while you read it, so a row's WHEN moves between two glances and Health's static counts and this page's timestamps drift apart within a minute; and Health promises "25 errored invocations in the last 24h" against a page whose own subtitle says "last 50 invocations", so the two agree today only because the fixture packs all 25 errors inside the 50-row window. Re-audit 2026-09-08: two changes on this surface. (1) The "All agents" filter is seeded from `GET /api/agents`, which stopped answering a bare array — it now reads `.agents` off `{ agents, degraded?, error? }`; verified live, the select lists Advisor / Graph Builder / Ingestion / Scoring / Search / Supervisor. (2) InvocationDetailPage's MEMORY OPERATIONS and GUARDRAIL TRACE cards fetched with `.catch(() => setRows([]))`, so a dead endpoint and "this invocation touched no memory" rendered the same sentence; both now read the route's `degraded` marker (and a non-2xx) and render the shared failure notice with a retry instead. Healthy on this pass: mock-inv-0 shows MEMORY OPERATIONS "1 op" and no notice in the DOM. Re-measured on the list: content col left 224px w 1304px, first-row-top 341px, 50 rows, no horizontal scroll (scrollWidth 1552 = innerWidth), 88 tabbable controls, console errors 0. Re-audit 2026-09-08 04:52 — the only change on this surface is its shared ObservabilityLayout rail, which gained a Tool Calls entry under Runs ("Show 16 detail views"); the list page itself is untouched. Re-measured live as u-vera/org-leader: content col left 224px w 1304px, nested rail flush at x 224, first-row-top 341px, 50 rows, 88 tabbable controls all reachable on the document-order focus walk, no horizontal scroll (scrollWidth 1552 = innerWidth), console errors 0. Screenshot retaken. Re-audit 2026-09-15 09:24: the only change is the title; the table reads the same 50 rows newest first, errors in red with the agent's error text. Console errors 0.
